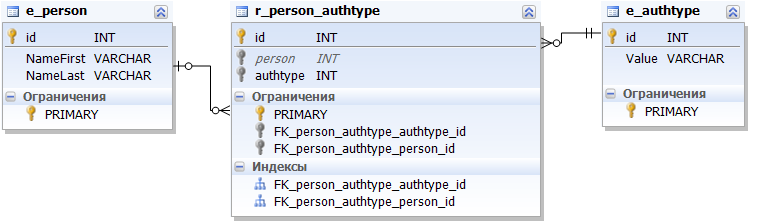
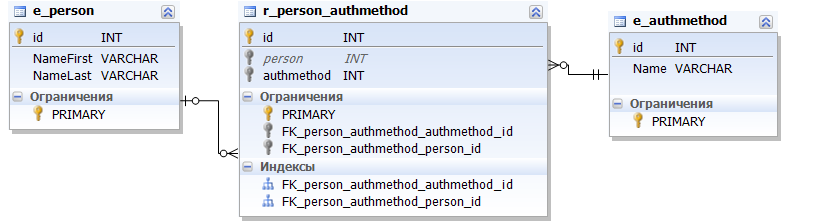
WF-30 - Improve Sample 02

diff --git a/sample/02_auth_method/README.md b/sample/02_auth_method/README.md
@@ -1,0 +1,19 @@
+# dBEAR Sample 02
+
+* Add attribute 'Gender' to entity 'Person' from namespace 'com.flancer32.dbear.sample.core'.
+* Add new namespace 'com.flancer32.dbear.sample.auth':
+    * with entity 'AuthMethod' (one attribute: 'Name');
+    * and relation 'Person_AuthMethod' between 'com.flancer32.dbear.sample.core.Person' and 'com.flancer32.dbear.sample.auth.AuthMethod';
+
+![sample 02](sample_02.png)
+
+
+## Domain Entities Map
+
+* [XML](sample_02.dem.xml)
+* [JSON](sample_02.dem.json)
+
+
+## Database Structure
+
+[SQL](sample_02.sql)
